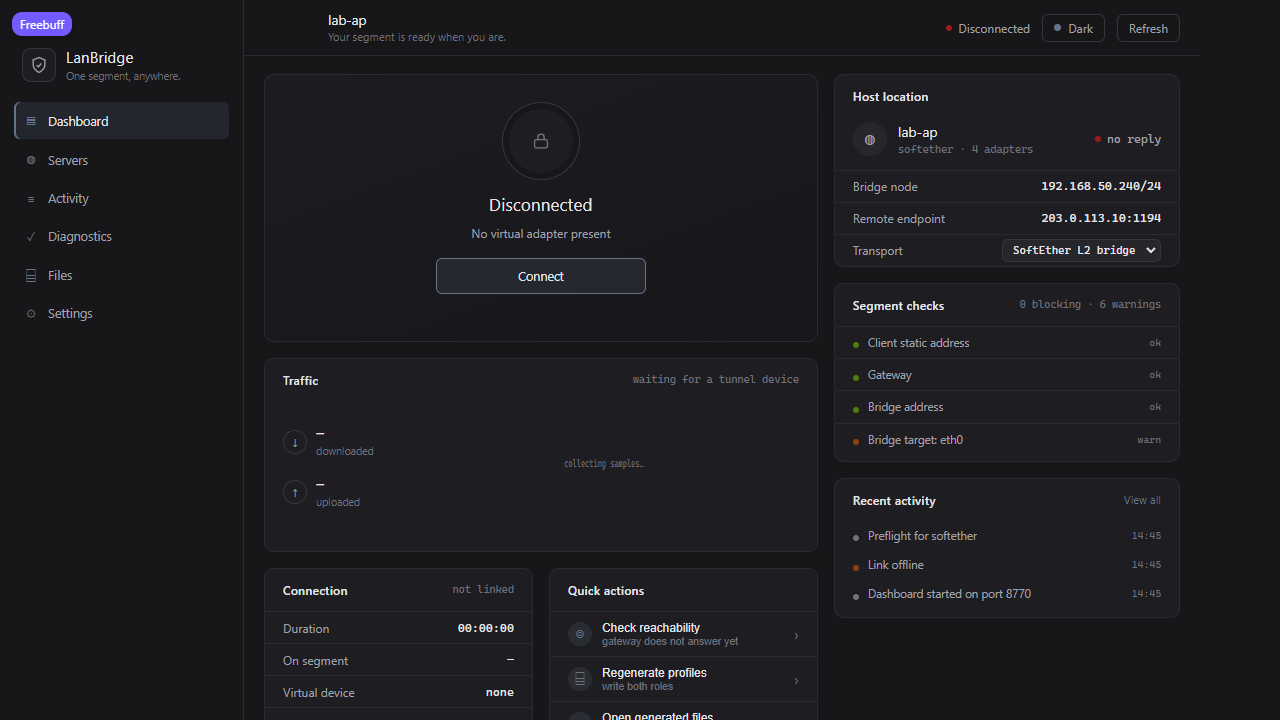
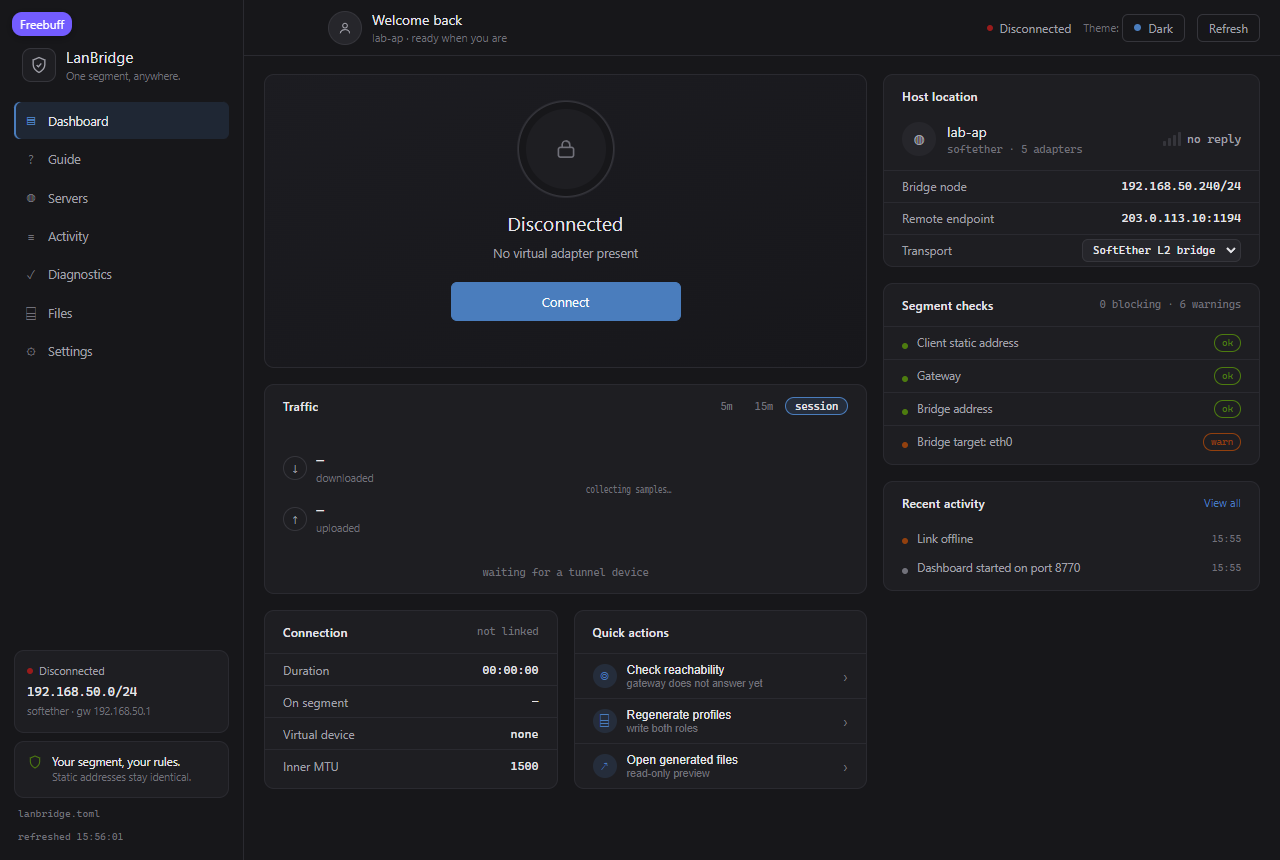
docs: install section, SSH over the segment, refreshed screenshot
Explains the one-command Debian install and why SSH works across the bridge once the segment is up.

🤖 Generated with Codebuff

diff --git a/README.md b/README.md
@@ -53,6 +53,33 @@ you have a stable far end to ping.
 
 ---
 
+## Install
+
+**Debian 11/12, Ubuntu 22.04/24.04**
+
+```bash
+sudo ./install.sh                 # CLI + dashboard
+sudo ./install.sh --with openvpn  # or: --with vxlan
+```
+
+It installs `python3`, `iproute2`, `nftables`, the `tomli` backport when Python
+is older than 3.11, copies the package to `/opt/lanbridge`, and writes a
+`/usr/local/bin/lanbridge` launcher. Re-running upgrades in place. It does not
+start any tunnel daemon.
+
+**Windows** - nothing to install beyond Python 3.9+:
+
+```powershell
+cd LanBridge
+python -m lanbridge doctor
+```
+
+**From a checkout, no install** - use `python -m lanbridge ...` with the folder
+on `PYTHONPATH`; everything works the same.
+
+No third-party runtime packages are required. `tomli` is the only conditional
+dependency (Python < 3.11).
+
 ## Usage
 
 **Every command is tagged with the machine it runs on.** `[WIN-HOST]` is your
@@ -97,6 +124,15 @@ same state.
 Ports used: `udp/1194` (OpenVPN), `tcp/1194` (SoftEther), `udp/51820`
 (WireGuard). VXLAN `udp/4789` stays inside the WireGuard tunnel and must never
 be exposed.
+
+### SSH over the segment
+
+Yes - once the link is up, the other side is an ordinary host on the same
+broadcast domain, so `ssh user@192.168.50.77` works with no extra tunnelling.
+The only requirements are on the target: `sshd` running (Debian:
+`apt install openssh-server`; Windows: enable the *OpenSSH Server* feature) and
+`tcp/22` allowed by its firewall. If `ping` answers and `ssh` hangs, the fault
+is at the target, not in the tunnel.
 
 ---
 
